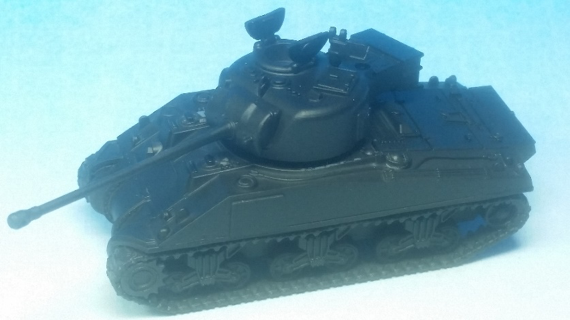
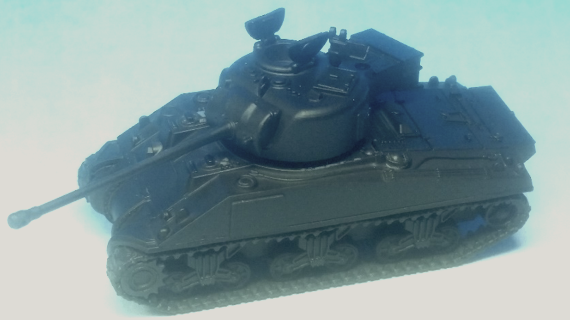
blog-small-image

diff --git a/indexstyle.css b/indexstyle.css
@@ -208,10 +208,21 @@ iframe{
 
 /*Blog*/
 .blog-image{
-    padding: 10px;
+    padding: 15px;
     width:100%; /* you can use % */
     height: auto;
+    border: 7px solid white;
 }
+
+.blog-image-small{
+    padding: 10px 5px 10px 5px;
+
+    width:100%; /* you can use % */
+    height: auto;
+    border: 7px solid white;
+}
+
+
 .figure {
     padding: 15px;
 }

diff --git a/blog.html b/blog.html
@@ -153,8 +153,7 @@
 
         <span>
 
-          <p>Once complete it is ready for a filter.
-</p>
+          <p>Once complete it is ready for a filter.</p>
 
 
 </div> <!--End of Blog 2-->
